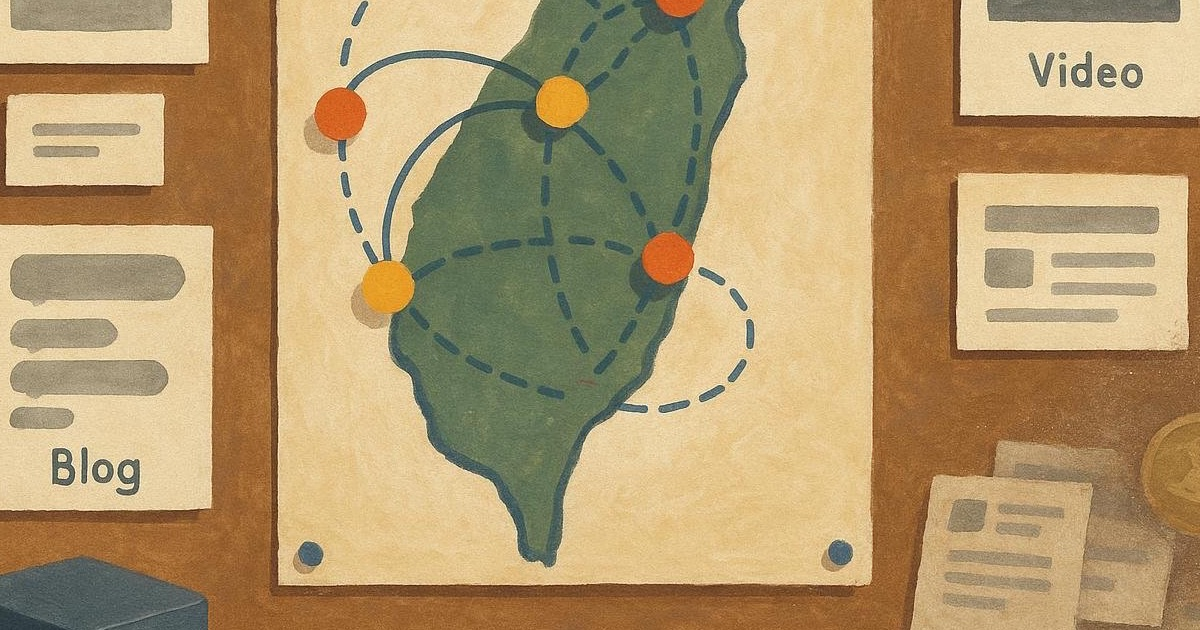
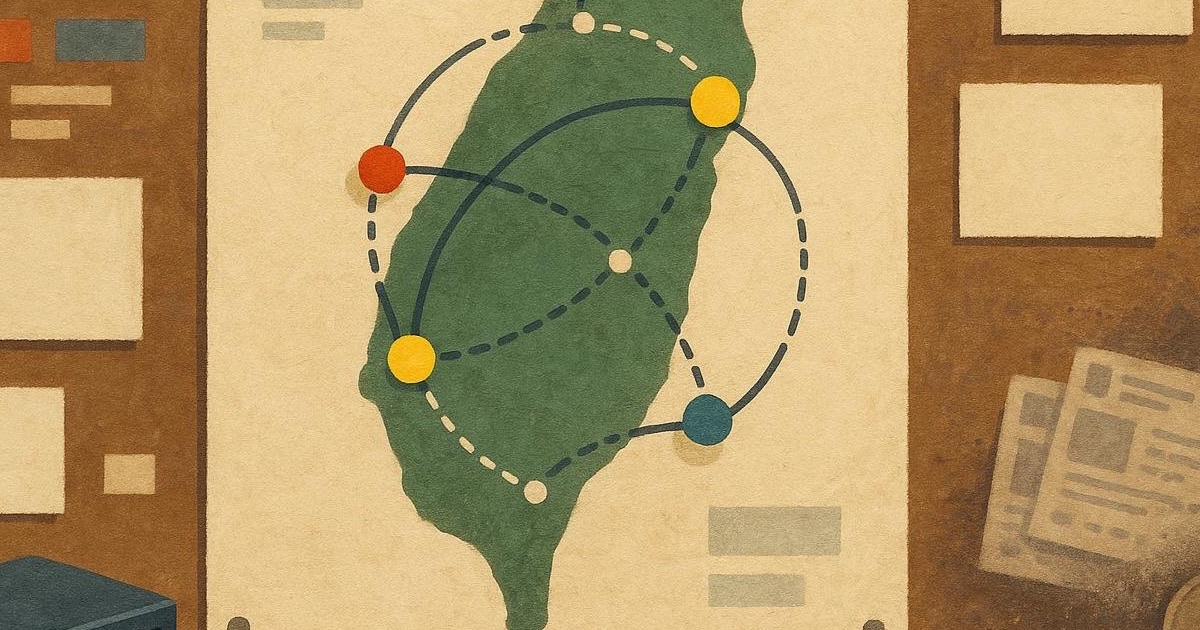
chore: rerender fediverse cover without text

diff --git a/src/content/blog/2026-03-20-台灣-fediverse-知識庫上線從-g0v-social-到-liker-social-的一條歷史線.md b/src/content/blog/2026-03-20-台灣-fediverse-知識庫上線從-g0v-social-到-liker-social-的一條歷史線.md
@@ -26,19 +26,21 @@ coverPrompt: >-
   editorial gouache illustration, overhead view, centered on a clearly
   recognizable map of Taiwan pinned to a research board, five bright node
   markers on the island connected by curved relay arcs and dotted federation
-  lines, small paper cards around the map showing different fediverse formats
-  such as short posts, forum threads, video windows, and blog pages, one corner
-  includes cables and a compact home server, another corner shows faded archived
-  social cards and a dim coin-like emblem disappearing into dust to represent
-  the lost history of liker.social and LikeCoin, visual mood of reconstructing
-  internet history from scattered evidence, calm but investigative, precise
-  composition, no characters, no animals, no mascots, no text
+  lines, only blank unlabeled cards around the map, abstract UI blocks only, no
+  readable text anywhere, no letters anywhere, no words anywhere, no labels, no
+  captions, no symbols that resemble readable writing, one corner includes
+  cables and a compact home server, another corner shows faded archived social
+  cards and a dim coin-like emblem disappearing into dust to represent the lost
+  history of liker.social and LikeCoin, visual mood of reconstructing internet
+  history from scattered evidence, calm but investigative, precise composition,
+  no characters, no animals, no mascots, no text
 coverNegativePrompt: >-
   text, typography, letters, watermark, logo, signature, caption, people, faces,
   hands, animals, birds, foxes, pigs, cats, mascots, character illustration,
   generic abstract geometry, empty pastel background, space scene, globe,
   photorealistic, 3d render, UI screenshot, low contrast, cluttered composition,
-  random social media icons
+  random social media icons, readable words, readable labels, printed text on
+  cards, interface text, fake handwriting, poster text
[1 lines of base64/hex data omitted]
 signature: >-
[1 lines of base64/hex data omitted]
